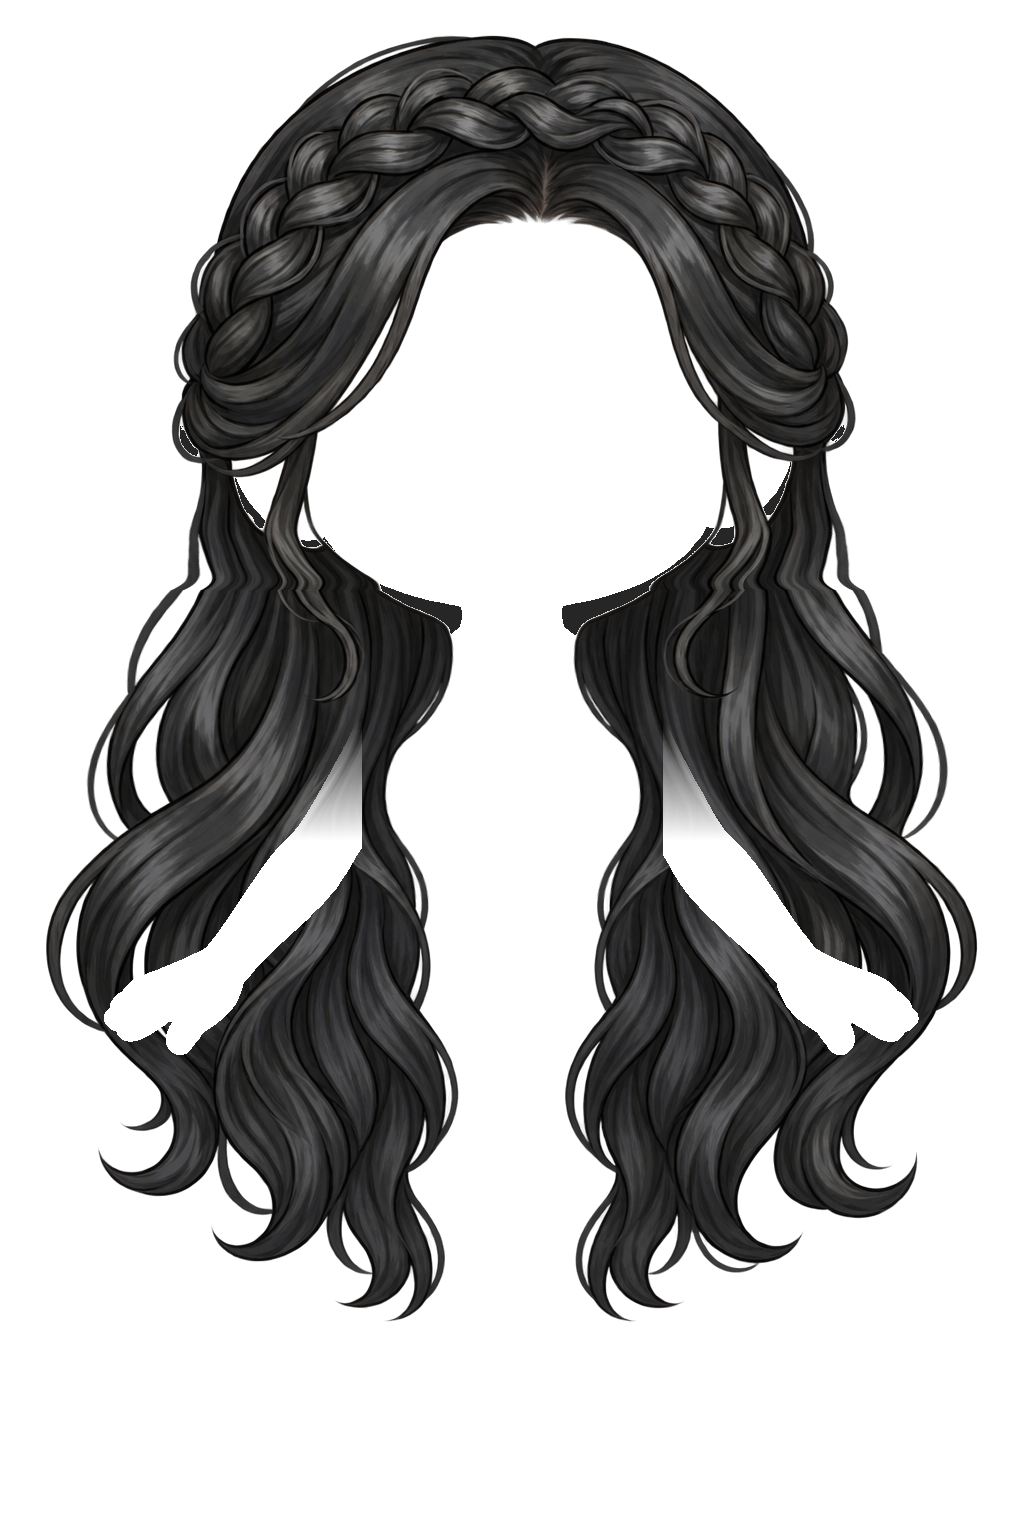
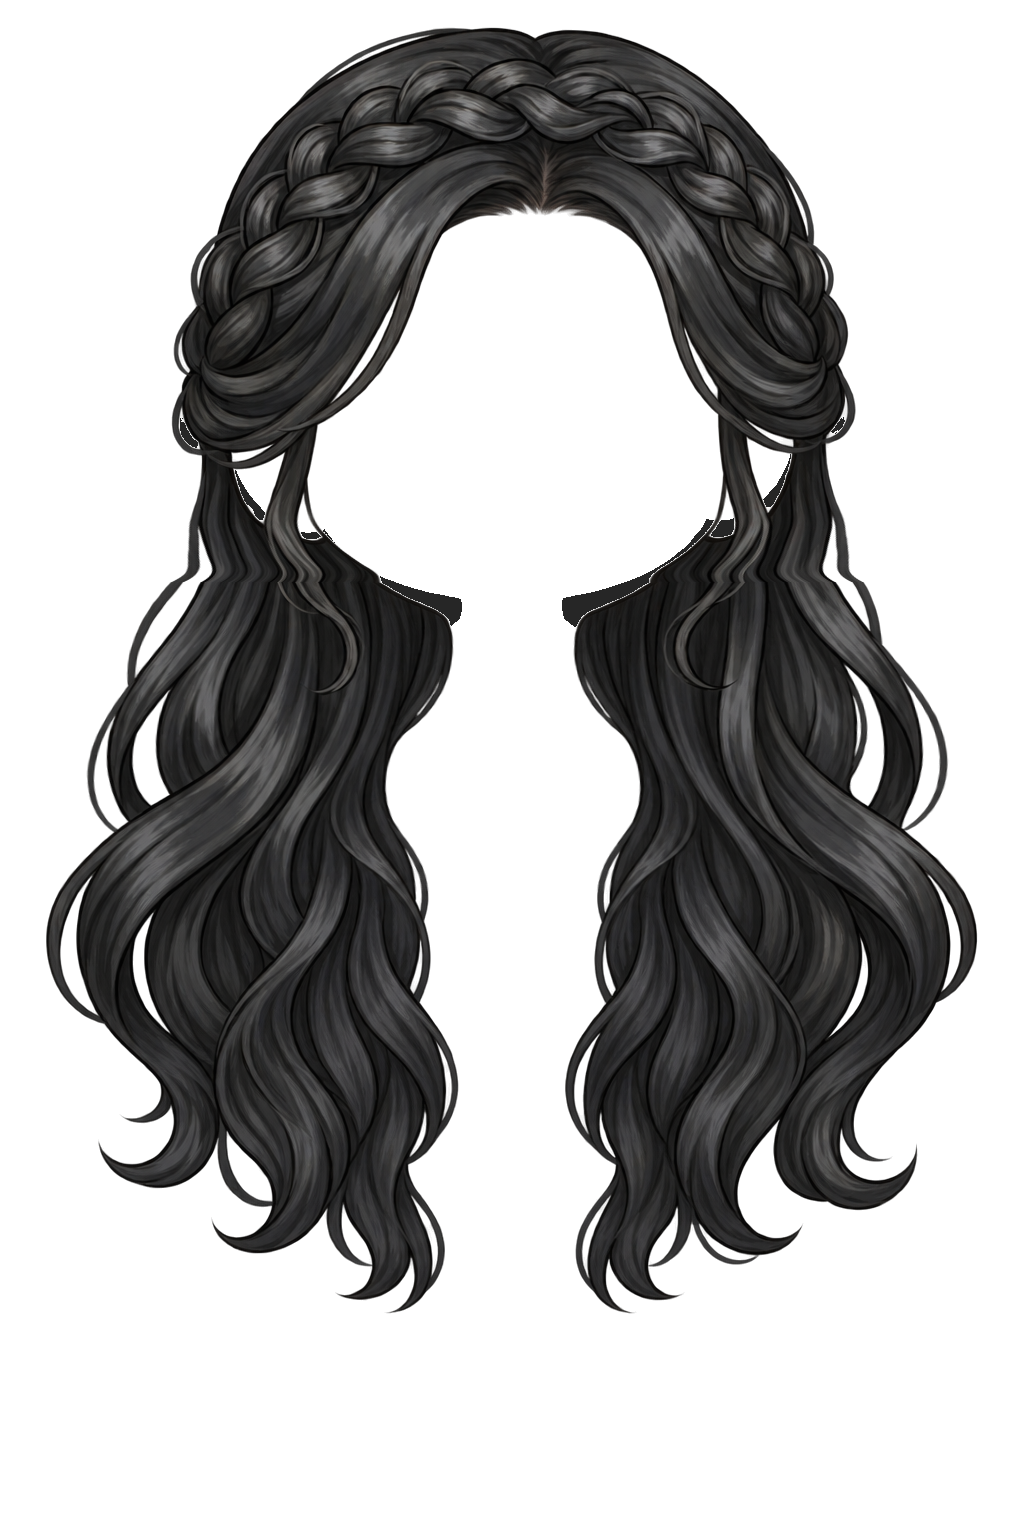
류소 땋은 왕관 웨이브: 머리 전체를 몸 뒤로, 한 칸 위로, 턱·목 둘레 빈 곳은 머리색으로
Claude-Session: https://claude.ai/code/session_01QsJz8svXLJhiXtuEPA1E7w

diff --git a/src/lib/avatars.ts b/src/lib/avatars.ts
@@ -1,4 +1,4 @@
-import { HAIR_BEHIND_Z, HAIR_FRONT_Z } from './layers'
+import { BODY_OVER_HAIR_Z, HAIR_BEHIND_Z, HAIR_FRONT_Z, HAIR_UNDER_BODY_Z } from './layers'
 import { isRestoring } from './restoreGuard'
 
 export interface Hairstyle {
@@ -10,6 +10,8 @@ export interface Hairstyle {
   body?: string
   /** true 면 머리를 옷 뒤(몸 바로 위)에 그린다. 옷 위로 내려오는 긴 머리용 */
   behind?: boolean
+  /** true 면 머리 전체를 몸 '뒤'에 그린다(몸이 머리 위). 이때 body 파일은 머리 쪽을 얼굴·귀·목만 남긴 것 */
+  under?: boolean
 }
 
 export interface Avatar {
@@ -29,7 +31,7 @@ export const AVATARS: Avatar[] = [
       { id: 'bob', name: { ko: '단발', en: 'Bob' }, file: 'hair_front.webp' },
       { id: 'wig', name: { ko: '레이어드 긴 머리', en: 'Layered long hair' }, file: 'hair_wig.webp', body: 'body_bald', behind: true },
       { id: 'tails', name: { ko: '웨이브 양갈래', en: 'Wavy pigtails' }, file: 'hair_tails.webp', body: 'body_bald', behind: true },
-      { id: 'braidwave', name: { ko: '땋은 왕관 웨이브', en: 'Crown braid waves' }, file: 'hair_braid.webp', body: 'body_bald', behind: true },
+      { id: 'braidwave', name: { ko: '땋은 왕관 웨이브', en: 'Crown braid waves' }, file: 'hair_braid.webp', body: 'body_braid', behind: true, under: true },
     ],
   },
   {
@@ -114,7 +116,9 @@ export function setHairstyle(a: Avatar, styleId: string) {
 }
 
 /** 지금 머리가 그려지는 높이: 옷 뒤로 가는 머리면 몸 바로 위, 아니면 앞머리 높이 */
-export const hairZ = (a: Avatar = getAvatar()) => (getHairstyle(a).behind ? HAIR_BEHIND_Z : HAIR_FRONT_Z)
+export const hairZ = (a: Avatar = getAvatar()) => { const h = getHairstyle(a); return h.under ? HAIR_UNDER_BODY_Z : h.behind ? HAIR_BEHIND_Z : HAIR_FRONT_Z }
+/** 몸이 그려지는 높이: 머리 전체가 몸 뒤로 가면 머리 위(2), 아니면 맨 아래(0) */
+export const bodyZ = (a: Avatar = getAvatar()) => (getHairstyle(a).under ? BODY_OVER_HAIR_Z : 0)
 
 /** 아바타의 베이스 레이어 파일 경로(assetUrl 을 거치기 전). 머리는 지금 고른 머리 */
 export const baseFiles = (a: Avatar, style: Hairstyle = getHairstyle(a)) => ({

diff --git a/src/lib/avatars.test.ts b/src/lib/avatars.test.ts
@@ -1,5 +1,5 @@
 import { beforeEach, describe, expect, it } from 'vitest'
-import { AVATARS, baseFiles, getAvatar, getHairstyle, hairZ, setAvatar, setHairstyle } from './avatars'
+import { AVATARS, baseFiles, bodyZ, getAvatar, getHairstyle, hairZ, setAvatar, setHairstyle } from './avatars'
 import { HAIR_BEHIND_Z, HAIR_FRONT_Z, LAYER_Z } from './layers'
 
 describe('avatars', () => {
@@ -31,13 +31,23 @@ describe('avatars', () => {
   it('류소의 긴 머리 둘은 옷 뒤(몸 바로 위)에 그리고, 단발은 앞머리 높이', () => {
     const ryuso = AVATARS.find((a) => a.id === 'ryuso')!
     expect(hairZ(ryuso)).toBe(HAIR_FRONT_Z)
-    for (const id of ['wig', 'tails', 'braidwave']) {
+    for (const id of ['wig', 'tails']) {
       setHairstyle(ryuso, id)
       expect(hairZ(ryuso)).toBe(HAIR_BEHIND_Z)
       expect(HAIR_BEHIND_Z).toBeLessThan(Math.min(...Object.values(LAYER_Z)))
       expect(baseFiles(ryuso).body).toBe('assets/base/body_bald.webp')
       expect(baseFiles(ryuso).bodyBarefoot).toBe('assets/base/body_bald_barefoot.webp')
     }
+    setHairstyle(ryuso, 'bob')
+  })
+  it('땋은 왕관 웨이브는 머리 전체를 몸 뒤에 그리고, 나머지 긴 머리는 몸 위·옷 뒤', () => {
+    const ryuso = AVATARS.find((a) => a.id === 'ryuso')!
+    setHairstyle(ryuso, 'braidwave')
+    expect(hairZ(ryuso)).toBeLessThan(bodyZ(ryuso))
+    expect(bodyZ(ryuso)).toBeLessThan(Math.min(...Object.values(LAYER_Z)))
+    expect(baseFiles(ryuso).body).toBe('assets/base/body_braid.webp')
+    setHairstyle(ryuso, 'wig')
+    expect(bodyZ(ryuso)).toBe(0); expect(hairZ(ryuso)).toBe(HAIR_BEHIND_Z)
     setHairstyle(ryuso, 'bob')
   })
 })

diff --git a/src/components/AvatarHead.tsx b/src/components/AvatarHead.tsx
@@ -1,5 +1,5 @@
 import type { Avatar, Hairstyle } from '../lib/avatars'
-import { baseFiles } from '../lib/avatars'
+import { baseFiles, getHairstyle } from '../lib/avatars'
 import { assetUrl } from '../lib/items'
 
 /** 아바타 얼굴 쪽 정사각형 미리보기 (몸 + 머리 레이어를 겹쳐서 잘라 보여준다) */
@@ -9,8 +9,13 @@ export function AvatarHead({ avatar, style, className = 'h-24 w-24' }: { avatar:
   const box = { width: `${(1024 / 760) * 100}%`, left: `${(-132 / 760) * 100}%`, top: `${(-20 / 760) * 100}%` }
   return (
     <span className={`relative block overflow-hidden rounded-xl bg-white/70 ${className}`} aria-hidden>
-      <img src={assetUrl(f.body)} alt="" className={layer} style={box} draggable={false} />
-      <img src={assetUrl(f.hairFront)} alt="" className={layer} style={box} draggable={false} />
+      {(style ?? getHairstyle(avatar)).under ? (<>
+        <img src={assetUrl(f.hairFront)} alt="" className={layer} style={box} draggable={false} />
+        <img src={assetUrl(f.body)} alt="" className={layer} style={box} draggable={false} />
+      </>) : (<>
+        <img src={assetUrl(f.body)} alt="" className={layer} style={box} draggable={false} />
+        <img src={assetUrl(f.hairFront)} alt="" className={layer} style={box} draggable={false} />
+      </>)}
     </span>
   )
 }

diff --git a/src/lib/exportPng.ts b/src/lib/exportPng.ts
@@ -1,6 +1,6 @@
 import { drawBackground, type Background } from './backgrounds'
 import { BASE_LAYERS, ITEM_BY_ID, assetUrl } from './items'
-import { hairZ } from './avatars'
+import { bodyZ, hairZ } from './avatars'
 import { CANVAS_H, CANVAS_W } from './layers'
 import { wornItems } from './outfit'
 import { effectiveZ, getTweak, pivotOf } from './tweaks'
@@ -42,9 +42,12 @@ export async function renderFigure(outfit: Outfit, tweaks: Tweaks = {}): Promise
   ])
   const canvas = makeCanvas(CANVAS_W, CANVAS_H)
   const ctx = canvas.getContext('2d')!
+  // 머리 전체가 몸 뒤(hairZ < bodyZ)면 머리를 먼저 그리고 그 위에 몸, 아니면 몸 → 옷 → 앞머리 순서
+  const hairFirst = hairZ() < bodyZ()
+  if (hairFirst) ctx.drawImage(hair, 0, 0, CANVAS_W, CANVAS_H)
   ctx.drawImage(body, 0, 0, CANVAS_W, CANVAS_H)
   // 앞머리(60)는 아우터(50) 위, 액세서리(70) 아래
-  let hairDrawn = false
+  let hairDrawn = hairFirst
   items.forEach((it, idx) => {
     if (!hairDrawn && effectiveZ(it.zIndex, tweaks[it.category]) > hairZ()) {
       ctx.drawImage(hair, 0, 0, CANVAS_W, CANVAS_H)

diff --git a/src/components/Stage.tsx b/src/components/Stage.tsx
@@ -3,7 +3,7 @@ import { useI18n } from '../i18n'
 import type { Background } from '../lib/backgrounds'
 import { useAvatar } from '../lib/useAvatar'
 import { BASE_LAYERS, ITEM_BY_ID, assetUrl } from '../lib/items'
-import { hairZ } from '../lib/avatars'
+import { bodyZ, hairZ } from '../lib/avatars'
 import { type Category } from '../lib/layers'
 import { wornItems } from '../lib/outfit'
 import { effectiveZ } from '../lib/tweaks'
@@ -44,7 +44,7 @@ export function Stage({ outfit, ...rest }: Props) {
     label: it.name[lang],
   }))
   const base: BaseLayer[] = [
-    { src: outfit.shoes ? BASE_LAYERS.bodyBarefoot : BASE_LAYERS.body, z: 0 },
+    { src: outfit.shoes ? BASE_LAYERS.bodyBarefoot : BASE_LAYERS.body, z: bodyZ() },
     { src: BASE_LAYERS.hairFront, z: hairZ() },
   ]
   return <LayerStage base={base} layers={layers} ariaLabel={t('tweakAria')} {...rest} />

diff --git a/src/components/FigureLayers.tsx b/src/components/FigureLayers.tsx
@@ -1,6 +1,6 @@
 import { memo } from 'react'
 import { BASE_LAYERS, ITEM_BY_ID, assetUrl } from '../lib/items'
-import { hairZ } from '../lib/avatars'
+import { bodyZ, hairZ } from '../lib/avatars'
 import { wornItems } from '../lib/outfit'
 import { cssTransform, effectiveZ } from '../lib/tweaks'
 import type { Outfit, Tweaks } from '../lib/types'
@@ -26,7 +26,7 @@ export const FigureLayers = memo(function FigureLayers({
   const body = outfit.shoes ? BASE_LAYERS.bodyBarefoot : BASE_LAYERS.body
   return (
     <>
-      <img src={body} alt="" className="layer" style={{ zIndex: 0 }} draggable={false} />
+      <img src={body} alt="" className="layer" style={{ zIndex: bodyZ() }} draggable={false} />
       {items.map((it) => {
         const t = tweaks[it.category]
         return (

diff --git a/src/lib/layers.ts b/src/lib/layers.ts
@@ -21,6 +21,9 @@ export const LAYER_Z: Record<Category, number> = {
 export const HAIR_FRONT_Z = 60
 /** 옷 뒤로 가는 머리(몸 바로 위, 신발·옷 아래): 긴 머리가 옷을 가리지 않게 */
 export const HAIR_BEHIND_Z = 5
+/** 머리 전체가 몸 뒤로 가는 머리: 머리(1)가 몸(2)보다 아래, 둘 다 신발·옷보다 아래 */
+export const HAIR_UNDER_BODY_Z = 1
+export const BODY_OVER_HAIR_Z = 2
 
 /** 아바타·옷 PNG 공통 캔버스 크기 (옷은 이 캔버스 전체를 (0,0)에 겹쳐 올린다) */
 export const CANVAS_W = 1024

diff --git a/tools-py/fit_ryuso_hair.py b/tools-py/fit_ryuso_hair.py
@@ -1,6 +1,8 @@
 """머리만 그려진 투명 PNG(1024×1536)를 머리 없는 류소(assets-src/base/body_bald.png)의 턱 선에 맞춰 hair_<이름>.png 로 저장한다.
 
-  python tools-py/fit_ryuso_hair.py <이름> <머리.png>
+  python tools-py/fit_ryuso_hair.py <이름> <머리.png> [--behind] [--up N]
+  --behind: 머리를 몸 '뒤'에 그린다(몸이 머리 위). 이때 머리 쪽을 얼굴·귀·목만 남긴 body_<이름>.png 도 만든다. 없으면 머리는 body_bald 위·옷 뒤
+  --up N: 머리를 N 픽셀 위로 올린다(한 칸 = 8px)
 
 1) 떨어진 작은 조각을 지운다
 2) 머리 그림의 얼굴 구멍이 턱 쪽에서 얼굴보다 넓으면, 그 줄(가로 한 줄)의 머리를 가운데로 밀어서 구멍 가장자리가 턱 선에 닿게 한다 (500~590 줄 턱 선까지 맞추고, 640~900 줄에서 서서히 줄어 0)
@@ -16,6 +18,8 @@ from PIL import Image
 from scipy import ndimage as ndi
 
 name, src = sys.argv[1:3]
+behind = '--behind' in sys.argv
+lift = int(sys.argv[sys.argv.index('--up') + 1]) if '--up' in sys.argv else 0
 H, W = 1536, 1024
 body = np.array(Image.open('assets-src/base/body_bald.png').convert('RGBA'))
 face = body[..., 3] > 8
@@ -70,9 +74,28 @@ for c in range(3):
     out[..., c] = np.where(gap, col[c], out[..., c])
 out[..., 3] = np.where(gap, np.maximum(out[..., 3], (fade * 255).astype(np.uint8)), out[..., 3])
 
-# 4) 팔 높이(720~840 줄)부터 팔 위의 머리는 서서히 지워서 손이 보이게 한다 (머리는 몸 위·옷 뒤에 그려진다)
-f2 = np.clip((yy - 720) / 120.0, 0, 1)
-arm = (np.abs(xx - 512) > 150) & (yy >= 640) & bm
-out[..., 3] = np.where(arm, (out[..., 3] * (1 - f2)).astype(np.uint8), out[..., 3])
-Image.fromarray(out).save(f'assets-src/base/hair_{name}.png')
-print(name, 'ok')
+if lift:
+    out = np.roll(out, -lift, axis=0)
+    out[H - lift:] = 0
+
+if not behind:
+    # 4) 팔 높이(720~840 줄)부터 팔 위의 머리는 서서히 지워서 손이 보이게 한다 (머리는 body_bald 위·옷 뒤에 그려진다)
+    f2 = np.clip((yy - 720) / 120.0, 0, 1)
+    arm = (np.abs(xx - 512) > 150) & (yy >= 640) & bm
+    out[..., 3] = np.where(arm, (out[..., 3] * (1 - f2)).astype(np.uint8), out[..., 3])
+    Image.fromarray(out).save(f'assets-src/base/hair_{name}.png')
+else:
+    Image.fromarray(out).save(f'assets-src/base/hair_{name}.png')
+    # 4) 머리가 몸 뒤에 그려지므로, 몸의 머리 쪽은 머리카락이 덮던 부분을 지워서(얼굴·귀·목만 남김) 맨머리가 머리카락 위로 보이지 않게 한다
+    hair_a = out[..., 3] > 128
+    keep = cv2.dilate((face & ~hair_a).astype(np.uint8), cv2.getStructuringElement(cv2.MORPH_ELLIPSE, (15, 15))).astype(bool) & face
+    keep_soft = cv2.GaussianBlur(keep.astype(np.float32), (0, 0), 1.6)
+    for suf, srcf in (('', 'body_bald.png'), ('_barefoot', 'body_bald_barefoot.png')):
+        b = np.array(Image.open(f'assets-src/base/{srcf}').convert('RGBA'))
+        b[:640][~keep[:640]] = 0
+        b[:640, :, 3] = (b[:640, :, 3] * np.where(keep[:640], 1.0, 0.0) * np.clip(keep_soft[:640] * 1.4, 0, 1)).astype(np.uint8)
+        lab3, n3 = ndi.label(b[..., 3] > 0)
+        sz3 = ndi.sum(b[..., 3] > 0, lab3, range(1, n3 + 1))
+        b[~np.isin(lab3, [i + 1 for i, s_ in enumerate(sz3) if s_ > 2000])] = 0
+        Image.fromarray(b).save(f'assets-src/base/body_{name}{suf}.png')
+print(name, 'ok', 'behind' if behind else 'front', 'up', lift)
